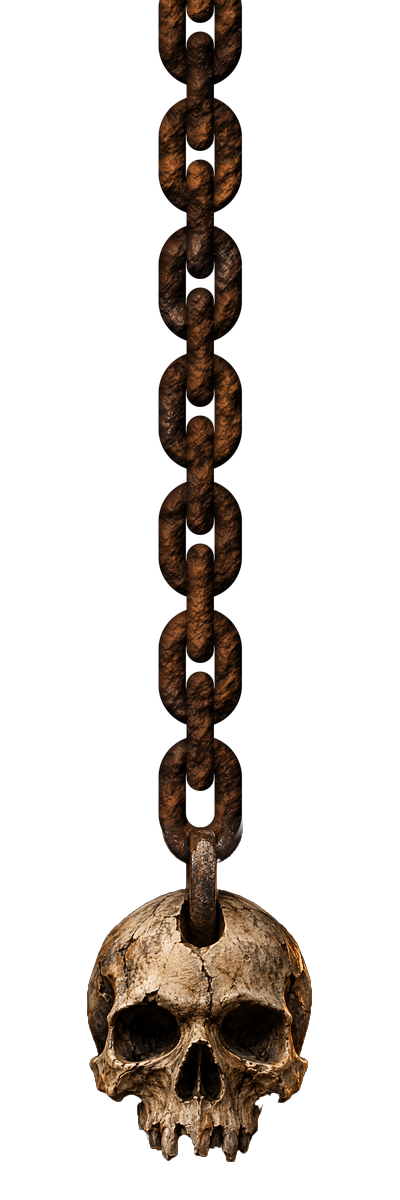
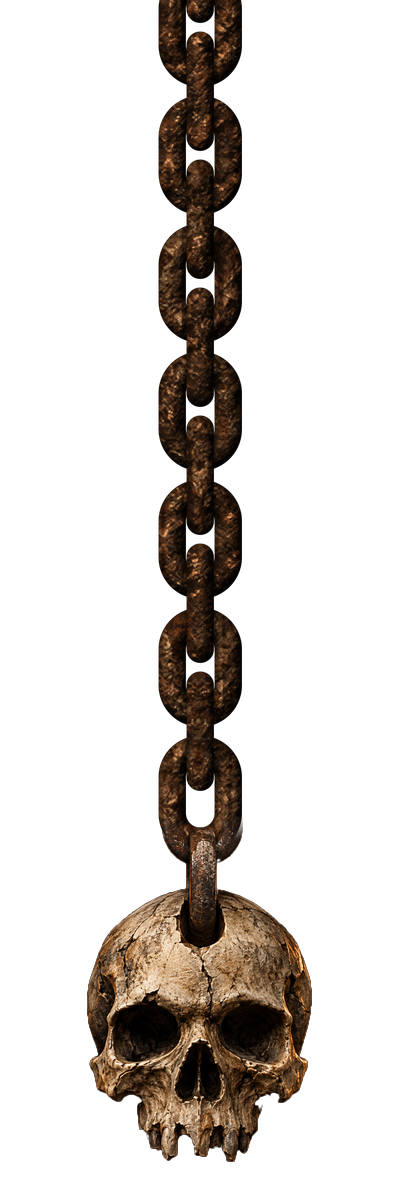
Accueil : texture des chaînes reprise de l'anneau du crâne (script tools/gen_chain.py)
Claude-Session: https://claude.ai/code/session_016J9VLX1fiPLFcAPYid8ZLe

Changed region(s): [[0.39, 0.0, 0.6, 0.7092]]

diff --git a/tools/gen_chain.py b/tools/gen_chain.py
@@ -1,0 +1,169 @@
+import numpy as np
+from PIL import Image
+from scipy import ndimage as ndi
+
+SS = 2                     # sur-échantillonnage
+PX = 4                     # pixels par unité de conception
+def fbm(h, w, seed, oct=5, base=6):
+    rng = np.random.default_rng(seed)
+    out = np.zeros((h, w)); amp = 1.0; tot = 0
+    for o in range(oct):
+        g = rng.random((base * 2**o + 2, max(2, int(base * 2**o * w / h)) + 2))
+        out += amp * ndi.zoom(g, (h / g.shape[0], w / g.shape[1]), order=3)[:h, :w]
+        tot += amp; amp *= 0.5
+    return out / tot
+
+def load_patch():
+    src = Image.open("/mnt/user-data/attachments/97f20bf3-1ee6-5379-b46f-c57472fef5c6/75fdfba2-image.png").convert("RGB")
+    pt = np.asarray(src.crop((616, 84, 684, 322))).astype(np.float32) / 255      # intérieur du tube rouillé
+    low = np.stack([ndi.gaussian_filter(pt[..., c], 14, mode="reflect") for c in range(3)], -1)
+    detail = np.clip(pt / (low + 0.02), 0.35, 2.2)                                 # on retire l'éclairage cuit : reste le grain et la couleur locale
+    mean = pt.reshape(-1, 3).mean(0)
+    return detail, mean
+PATCH, PMEAN = load_patch()
+def alb_map(X, Y, ox, oy, scale):
+    ph, pw = PATCH.shape[:2]
+    u = (X * scale + ox) % (2 * pw); v = (Y * scale + oy) % (2 * ph)
+    u = np.where(u >= pw, 2 * pw - 1 - u, u).astype(np.int32).clip(0, pw - 1)
+    v = np.where(v >= ph, 2 * ph - 1 - v, v).astype(np.int32).clip(0, ph - 1)
+    return PATCH[v, u]
+
+LIGHT = np.array([-0.45, -0.55, 0.70]); LIGHT /= np.linalg.norm(LIGHT)
+
+def tube(shape_sd, r, noise, yy):
+    """shape_sd: distance signée (px) à la ligne médiane du tube (gradient donne le sens). Retourne couleur RGB + alpha."""
+    pass
+
+def seg_dist(X, Y, a, b):
+    ax, ay = a; bx, by = b
+    abx, aby = bx - ax, by - ay
+    t = np.clip(((X - ax) * abx + (Y - ay) * aby) / max(1e-9, abx * abx + aby * aby), 0, 1)
+    cx, cy = ax + t * abx, ay + t * aby
+    return np.hypot(X - cx, Y - cy), X - cx, Y - cy
+
+def shade(nx, ny, nz, mask, noise, hh, atex):
+    h_, w_ = noise.shape
+    fine = fbm(h_, w_, seed=5, oct=5, base=70)            # grain de rouille (relief)
+    mid = fbm(h_, w_, seed=9, oct=4, base=18)              # plaques
+    gy, gx = np.gradient(fine)
+    nx = nx - gx * 18.0; ny = ny - gy * 18.0                # relief rugueux
+    n = np.stack([nx, ny, nz], -1); n /= np.linalg.norm(n, axis=-1, keepdims=True) + 1e-9
+    diff = np.clip(n @ LIGHT, 0, 1)
+    V = np.array([0, 0, 1.0]); H = LIGHT + V; H /= np.linalg.norm(H)
+    spec = np.clip(n @ H, 0, 1) ** 20 * (0.10 + 0.25 * np.clip((atex.mean(-1) - 1.2) * 2.0, 0, 1))
+    base = np.array([0.27, 0.17, 0.10])
+    alb = base[None, None] * atex * (0.85 + 0.3 * fine[..., None])
+    # bords orangés (comme l'anneau d'origine) : tons plus chauds vers les flancs du tube
+    warm = (1 - hh)[..., None] ** 2 * np.array([0.25, 0.10, 0.0])
+    alb = alb + warm * 0.6
+    col = alb * (0.10 + 1.25 * diff[..., None]) + spec[..., None] * np.array([1.0, 0.8, 0.6])
+    col += np.clip(0.5 - 0.5 * (2 * n[..., 2] * n[..., 1]), 0, 1)[..., None] ** 2 * 0.05 * np.array([1.0, 0.5, 0.2])
+    col *= (0.30 + 0.70 * hh[..., None]) ** 0.9
+    return np.clip(col, 0, 1)
+
+def render(W, H, links, noise_seed=3):
+    """links: liste (kind, cx, cy[, extra]) — 'F' lien de face (stade), 'E' lien de profil (barre), 'R' grand anneau."""
+    w, h = W * SS, H * SS
+    Y, X = np.mgrid[0:h, 0:w].astype(np.float32)
+    noise = fbm(h, w, noise_seed, 5, 8)
+    rgb = np.zeros((h, w, 3), np.float32); a = np.zeros((h, w), np.float32)
+    r = 14.0 * SS
+    def put(sd_dist, gx, gy, atex):
+        nonlocal rgb, a
+        d = sd_dist
+        m = d < r
+        hh = np.sqrt(np.clip(1 - (d / r) ** 2, 0, 1))
+        nx = gx / r; ny = gy / r
+        col = shade(nx, ny, hh, m, noise, hh, atex)
+        edge = np.clip((r - d) / 1.2, 0, 1)          # anti-crénelage
+        al = edge * m
+        rgb = rgb * (1 - al[..., None]) + col * al[..., None]; a = np.maximum(a, al) * 1.0 + 0 * al
+        a = np.where(al > 0, np.maximum(a, al), a)
+    def put_shadow(mask_alpha):
+        pass
+    order = [l for l in links if l[0] in "FR"] + [l for l in links if l[0] == "E"]
+    rng = np.random.default_rng(99)
+    for kind, cx, cy, *ex in order:
+        cx *= SS; cy *= SS
+        flip = rng.random() < 0.5
+        atex = alb_map(X if not flip else (w - X), Y, rng.integers(0, 400), rng.integers(0, 400), 0.9 / SS * 1.0 * 1.0)
+        if kind == "F":      # stade : ligne médiane = rectangle arrondi (R=28 px, droite 36 px)
+            Rr = 28.0 * SS; st = 18.0 * SS
+            # distance à la ligne médiane = | dist(segment) - R |
+            d0, dx, dy = seg_dist(X, Y, (cx, cy - st), (cx, cy + st))
+            sd = d0 - Rr
+            gx = np.where(d0 > 1e-6, dx / (d0 + 1e-9), 0); gy = np.where(d0 > 1e-6, dy / (d0 + 1e-9), 0)
+            dd = np.abs(sd); sgn = np.sign(sd)
+            put(dd, gx * sgn * dd, gy * sgn * dd, atex)
+        elif kind == "R":    # grand anneau de face
+            Rr = ex[0] * SS
+            dx = X - cx; dy = Y - cy; d0 = np.hypot(dx, dy)
+            sd = d0 - Rr; dd = np.abs(sd); sgn = np.sign(sd)
+            put(dd, dx / (d0 + 1e-9) * sgn * dd, dy / (d0 + 1e-9) * sgn * dd, atex)
+        else:                # profil : capsule verticale de rayon r (soit 46 px de droite)
+            st = 46.0 * SS
+            # ombre portée douce sur ce qui est dessous
+            d0, dx, dy = seg_dist(X, Y, (cx, cy - st), (cx, cy + st))
+            sh = np.clip(1 - (d0 - r) / (10.0 * SS), 0, 1) ** 2 * 0.55 * (d0 >= r)
+            rgb *= (1 - sh[..., None]); 
+            put(d0, dx, dy, atex)
+    img = np.concatenate([rgb, a[..., None]], -1)
+    im = Image.fromarray((img * 255).astype(np.uint8), "RGBA").resize((W, H), Image.LANCZOS)
+    return im
+
+def pitch_links(cy_start, count_dir, cx, y_from, y_to):
+    pass
+
+def build_left():
+    W, H = 100 * PX, 300 * PX
+    skull = Image.open("/mnt/user-data/attachments/97f20bf3-1ee6-5379-b46f-c57472fef5c6/75fdfba2-image.png").convert("RGB")
+    sw = W; sh = round(skull.height * W / skull.width)
+    skull = skull.resize((sw, sh), Image.LANCZOS)
+    arr = np.asarray(skull).astype(np.float32) / 255
+    lum = arr.max(-1)
+    dark = lum < 0.07
+    lab, n = ndi.label(dark)
+    border = set(np.unique(np.concatenate([lab[0], lab[-1], lab[:, 0], lab[:, -1]]))) - {0}
+    bg = np.isin(lab, list(border))
+    alpha = (~bg).astype(np.float32)
+    alpha = ndi.gaussian_filter(alpha, 1.0)
+    alpha = np.clip((alpha - 0.3) / 0.5, 0, 1)
+    # fondu en haut pour se fondre dans la chaîne
+    fade = np.clip(np.arange(sh)[:, None] / (6.0 * PX), 0, 1)
+    alpha = alpha * fade
+    sk = np.dstack([arr, alpha])
+    sk_im = Image.fromarray((sk * 255).astype(np.uint8), "RGBA")
+    top = H - sh
+    pitch = 16.0 * PX
+    cF = top - 5.0 * PX                       # centre du lien de face qui coiffe la tête
+    links = []
+    cx = W / 2; k = 0
+    y = cF
+    while y > -80:
+        links.append(("F" if k % 2 == 0 else "E", cx, y)); y -= pitch; k += 1
+    base = render(W, H, links, noise_seed=11)
+    # léger voile sombre sous le crâne pour le détacher du fond
+    out = Image.new("RGBA", (W, H), (0, 0, 0, 0)); out.alpha_composite(base)
+    out.alpha_composite(sk_im, (0, top))
+    return out
+
+def build_right():
+    W, H = 64 * PX, 367 * PX
+    pitch = 16.0 * PX
+    cx = W / 2
+    ring_r = 40.0; ring_cy = H - 58.0 * 1.0
+    links = [("R", cx, ring_cy, ring_r)]
+    # dernier lien de profil passant dans l'anneau
+    y = ring_cy - ring_r - 0.0 - 6.0       # le lien E coiffe le haut de l'anneau
+    k = 0
+    cE = ring_cy - ring_r + 18.0
+    y = cE; k = 1
+    while y > -80:
+        links.append(("E" if k % 2 == 1 else "F", cx, y)); y -= pitch; k += 1
+    return render(W, H, links, noise_seed=23)
+
+if __name__ == "__main__":
+    import sys
+    out = sys.argv[1]
+    build_left().save(out + "/chain_left.png")
+    build_right().save(out + "/chain_right.png")

diff --git a/README.md b/README.md
@@ -24,7 +24,7 @@ Un jeu de donjon en vue subjective et en 3D : on mène un groupe de quatre héro
 - **Donjons aléatoires** réglables (difficulté, taille, nombre de niveaux) et **éditeur de niveaux** intégré ; les donjons se partagent par code. À l'arrivée dans un niveau, aucun monstre n'est placé près du départ et tous restent calmes une douzaine de secondes : le joueur a le temps de s'orienter.
 - **Raretés** : les objets d'équipement sont communs, inhabituels, rares, épiques, légendaires ou mythiques (couleur du nom et du cadre) ; chaque palier ajoute des capacités (critique, esquive, vol de vie, exécution, dernier souffle…). Les gardiens laissent au moins du rare, et un légendaire finit toujours par tomber.
 - **Village** : forge, Maître des Talents, marchands itinérants et boutique. Chez le marchand, le bouton d'achat ou de vente est en haut de la fiche de l'objet, et la **sélection multiple** permet de vendre plusieurs objets d'un coup. Les armes et équipements proposés varient en puissance, avec toujours au moins une **belle affaire** nettement meilleure que ce que porte déjà le groupe : acheter reste intéressant à haut niveau.
-- **Interface de jeu (identité « Atlas Noir »)** : refonte complète de l'écran de jeu d'après la maquette — bande du haut (emblème de boussole, titre, repère central « NIVEAU n / NOM » entre deux filets à losanges, commandes en capitales fines) ; colonne de gauche « Carte » (plan, légende à deux colonnes) ; vue 3D au centre avec une réglette d'orientation N/E/S/O en bas ; fiches de héros dessous (portrait, nom en Cinzel, PV rouges et endurance/mana, repère ambre pour le héros actif) ; colonne de droite « Inventaire commun » (six onglets à icône, grille de cases avec quantité en bas à droite, or, total et bouton « Inventaire »), « Carnet » sur parchemin (« Journal des événements ») et raccourcis en cercles numérotés (attaque + sorts 1 à 6) ; file d'initiative en filet fin à losanges ; plus de flammes ni de chaînes. Titre « DONJON / ATLAS NOIR » sur deux lignes ; fond noir uni (plus de texture brune) ; la file d'initiative s'affiche en bas de la vue pendant le combat (sous la barre de vie des monstres) puis disparaît ; le volet d'équipement du personnage a son cadre en bois remplacé par un cadre Atlas ; la vue 3D occupe toute la largeur de l'écran et les panneaux latéraux (carte transparente à gauche, inventaire et carnet à droite) sont posés par-dessus ; le bord haut de la vue « décroche » au-dessus de la carte ; fiches de héros à barres en biais, chiffres à droite ; Carnet en parchemin grainé. Palette obsidienne / ardoise / cuivre / ivoire / ambre, polices Cinzel + Spectral. Le portrait mobile reprend la même identité. Menu d'en-tête en icônes (Guide, Paramètres, Sauvegarde, puis ≡ pour Accueil / Compte / Admin / Langue / Quitter) ; le repère central affiche « NIVEAU n / nom du donjon » ; portraits détourés sur fond noir ; ascenseurs fins à curseur clair ; bouton de tchat réduit ; en jeu, modales et infobulles reprennent le décor Atlas (cadres à angles coupés, filet cuivre) ; au lancement d'un sort de soin, la fiche de héros survolée s'illumine. En combat : file d'initiative entière, posée au-dessus du chronomètre de tour ; barre de vie des monstres plus basse, en biais et rouge comme celles des héros ; pastille « Pause » tout en haut au centre ; colonnes de droite encore plus étroites. Ronds de sorts à anneau dégradé cuivre/ardoise avec repères et halo ambre au survol ; croix directionnelle réservée au mobile ; compteur de l'inventaire par catégorie (possédé / 12) ; barre de vie des monstres très fine, posée au-dessus de leur tête ; potions et parchemins rangés en largeur sous le carnet en combat ; repère de niveau descendu dans le décroché. Nouvelle boussole haute résolution (en-tête et pied de la carte) ; ronds de sorts plus gros sur deux rangées, qui s'allument quand on presse leur touche ; fiche de héros ciblable surlignée en ambre vif (halo, repères d'angle) ; besace à 5 catégories de 12 emplacements (armes, armures, potions, parchemins, clés), l'onglet « Tout » en affiche la somme (60). Coffres et leviers ne se déclenchent plus en marchant dessus : clic sur l'objet ou touche d'action (F par défaut, réglable dans Paramètres › Commandes), avec une invite « [F] Ouvrir le coffre » dans la vue ; le butin d'un coffre jaillit d'un saut et retombe en éventail devant lui sans jamais s'empiler, et ce qui ne tient pas dans la besace (ou tombe d'un monstre) reste au sol, ramassable plus tard ; levier mural remodelé en haute définition. **Techniques ultimes (7e sort)** : chaque classe évoluée (Berserker, Paladin, Mage-Archer, Danselame, Voleur, Assassin, Élémentaliste, Sorcier, Clerc, Croisé, Skalde, Ménestrel, Gardien de la Forêt, Druide de la Tempête) gagne à l'évolution (niveau 5) une technique ultime sur un 7e disque doré de la barre (touches 8 ou R, réglables) : cadenas tant que le héros est de classe de base, puis une jauge qui se remplit en frappant (+10), en encaissant (+6) ou en soutenant (+6) ; jauge pleine, le disque pulse et le sort se lance sans endurance ni recharge, la jauge repart de zéro. L'anneau de la jauge est lumineux et pulse en continu (halo doré, tête incandescente pendant la charge ; une fois pleine, pulsation franche, éclat qui en fait le tour et étincelles). Jauge pleine, un sceau doré « ULTIME » (frère du sceau rouge d'instinct, à l'opposé) apparaît à droite de la vue 3D avec l'icône et le nom du sort : un clic le lance (il se retire pendant une alerte d'instinct). Effets : Rage Sanguinaire, Jugement Divin, Volée Arcanique, Tempête d'Acier (5 frappes), Rafle Éclair (or), Exécution (tue sous 30 % de PV), Cataclysme Élémentaire, Pacte Funeste (vol de vie), Miracle (soin, bouclier et relève d'un héros tombé), Croisade, Chant de Guerre, Berceuse Finale, Racines Ancestrales et Colère du Ciel, avec les effets graphiques et les sons des gros sorts existants. Réglages dans l'atelier : Règles du jeu › Combat › Technique ultime (jauge, niveau, gains), onglet Sorts (interrupteur « Technique ultime » et effets annexes) et onglet Classes (carte « Technique ultime »). **Accueil « Atlas Noir »** : logo (boussole, « ATLAS NOIR », « CARTOGRAPHIE DES PROFONDEURS »), filet à losange et devise « Chaque descente écrit une nouvelle carte. » à gauche ; à droite trois grands boutons à angles coupés (Nouvelle Expédition — « Expédition en ligne » une fois connecté —, Donjon d'Origine, Archives) et un panneau « Outils » (Éditeur de donjon, Importer un fichier JSON, Charger un code, Tutoriel de création) ; pied de page à filet à encoches (version → journal des modifications, crédits). Chaînes refaites en haute définition (maillons rouillés, grain et piqûres, assortis à l'anneau du crâne), le crâne fourni au bout de celle de gauche ; flammes animées par un shader Godot (additif, bruit fractal) sur la torche et la bougie de gauche et la torche de droite, avec une lueur vacillante. Le titre de l'en-tête devient « ATLAS NOIR » seul (plus de « DONJON »). Le hub et l'administration gardent pour l'instant l'ancien décor.
+- **Interface de jeu (identité « Atlas Noir »)** : refonte complète de l'écran de jeu d'après la maquette — bande du haut (emblème de boussole, titre, repère central « NIVEAU n / NOM » entre deux filets à losanges, commandes en capitales fines) ; colonne de gauche « Carte » (plan, légende à deux colonnes) ; vue 3D au centre avec une réglette d'orientation N/E/S/O en bas ; fiches de héros dessous (portrait, nom en Cinzel, PV rouges et endurance/mana, repère ambre pour le héros actif) ; colonne de droite « Inventaire commun » (six onglets à icône, grille de cases avec quantité en bas à droite, or, total et bouton « Inventaire »), « Carnet » sur parchemin (« Journal des événements ») et raccourcis en cercles numérotés (attaque + sorts 1 à 6) ; file d'initiative en filet fin à losanges ; plus de flammes ni de chaînes. Titre « DONJON / ATLAS NOIR » sur deux lignes ; fond noir uni (plus de texture brune) ; la file d'initiative s'affiche en bas de la vue pendant le combat (sous la barre de vie des monstres) puis disparaît ; le volet d'équipement du personnage a son cadre en bois remplacé par un cadre Atlas ; la vue 3D occupe toute la largeur de l'écran et les panneaux latéraux (carte transparente à gauche, inventaire et carnet à droite) sont posés par-dessus ; le bord haut de la vue « décroche » au-dessus de la carte ; fiches de héros à barres en biais, chiffres à droite ; Carnet en parchemin grainé. Palette obsidienne / ardoise / cuivre / ivoire / ambre, polices Cinzel + Spectral. Le portrait mobile reprend la même identité. Menu d'en-tête en icônes (Guide, Paramètres, Sauvegarde, puis ≡ pour Accueil / Compte / Admin / Langue / Quitter) ; le repère central affiche « NIVEAU n / nom du donjon » ; portraits détourés sur fond noir ; ascenseurs fins à curseur clair ; bouton de tchat réduit ; en jeu, modales et infobulles reprennent le décor Atlas (cadres à angles coupés, filet cuivre) ; au lancement d'un sort de soin, la fiche de héros survolée s'illumine. En combat : file d'initiative entière, posée au-dessus du chronomètre de tour ; barre de vie des monstres plus basse, en biais et rouge comme celles des héros ; pastille « Pause » tout en haut au centre ; colonnes de droite encore plus étroites. Ronds de sorts à anneau dégradé cuivre/ardoise avec repères et halo ambre au survol ; croix directionnelle réservée au mobile ; compteur de l'inventaire par catégorie (possédé / 12) ; barre de vie des monstres très fine, posée au-dessus de leur tête ; potions et parchemins rangés en largeur sous le carnet en combat ; repère de niveau descendu dans le décroché. Nouvelle boussole haute résolution (en-tête et pied de la carte) ; ronds de sorts plus gros sur deux rangées, qui s'allument quand on presse leur touche ; fiche de héros ciblable surlignée en ambre vif (halo, repères d'angle) ; besace à 5 catégories de 12 emplacements (armes, armures, potions, parchemins, clés), l'onglet « Tout » en affiche la somme (60). Coffres et leviers ne se déclenchent plus en marchant dessus : clic sur l'objet ou touche d'action (F par défaut, réglable dans Paramètres › Commandes), avec une invite « [F] Ouvrir le coffre » dans la vue ; le butin d'un coffre jaillit d'un saut et retombe en éventail devant lui sans jamais s'empiler, et ce qui ne tient pas dans la besace (ou tombe d'un monstre) reste au sol, ramassable plus tard ; levier mural remodelé en haute définition. **Techniques ultimes (7e sort)** : chaque classe évoluée (Berserker, Paladin, Mage-Archer, Danselame, Voleur, Assassin, Élémentaliste, Sorcier, Clerc, Croisé, Skalde, Ménestrel, Gardien de la Forêt, Druide de la Tempête) gagne à l'évolution (niveau 5) une technique ultime sur un 7e disque doré de la barre (touches 8 ou R, réglables) : cadenas tant que le héros est de classe de base, puis une jauge qui se remplit en frappant (+10), en encaissant (+6) ou en soutenant (+6) ; jauge pleine, le disque pulse et le sort se lance sans endurance ni recharge, la jauge repart de zéro. L'anneau de la jauge est lumineux et pulse en continu (halo doré, tête incandescente pendant la charge ; une fois pleine, pulsation franche, éclat qui en fait le tour et étincelles). Jauge pleine, un sceau doré « ULTIME » (frère du sceau rouge d'instinct, à l'opposé) apparaît à droite de la vue 3D avec l'icône et le nom du sort : un clic le lance (il se retire pendant une alerte d'instinct). Effets : Rage Sanguinaire, Jugement Divin, Volée Arcanique, Tempête d'Acier (5 frappes), Rafle Éclair (or), Exécution (tue sous 30 % de PV), Cataclysme Élémentaire, Pacte Funeste (vol de vie), Miracle (soin, bouclier et relève d'un héros tombé), Croisade, Chant de Guerre, Berceuse Finale, Racines Ancestrales et Colère du Ciel, avec les effets graphiques et les sons des gros sorts existants. Réglages dans l'atelier : Règles du jeu › Combat › Technique ultime (jauge, niveau, gains), onglet Sorts (interrupteur « Technique ultime » et effets annexes) et onglet Classes (carte « Technique ultime »). **Accueil « Atlas Noir »** : logo (boussole, « ATLAS NOIR », « CARTOGRAPHIE DES PROFONDEURS »), filet à losange et devise « Chaque descente écrit une nouvelle carte. » à gauche ; à droite trois grands boutons à angles coupés (Nouvelle Expédition — « Expédition en ligne » une fois connecté —, Donjon d'Origine, Archives) et un panneau « Outils » (Éditeur de donjon, Importer un fichier JSON, Charger un code, Tutoriel de création) ; pied de page à filet à encoches (version → journal des modifications, crédits). Chaînes refaites en haute définition (maillons rouillés, grain et piqûres, dont la texture est reprise de l'anneau du crâne fourni), le crâne fourni au bout de celle de gauche ; flammes animées par un shader Godot (additif, bruit fractal) sur la torche et la bougie de gauche et la torche de droite, avec une lueur vacillante. Le titre de l'en-tête devient « ATLAS NOIR » seul (plus de « DONJON »). Le hub et l'administration gardent pour l'instant l'ancien décor.
 - **Interface de jeu** : la sauvegarde (emplacements, nouvelle partie, export, import) se trouve dans le menu du haut ; la colonne de droite montre la carte (que l'on peut replier), la besace commune du groupe (texte « pièces d'or » et bouton « Inventaire » en petits caractères, pour rester sur une ligne avec le total) et un grand grimoire des événements, plus lisible, qui occupe toute la place restante.
 - **Sept thèmes** de décor (matériaux, éclairage et ambiance propres à chacun), avec parfois du brouillard. Le Cachot humide a des murs et un plafond de briques brun-vert et un sol de terre rocailleuse, en relief (matériau 3D). Le thème Lave a des murs et un plafond de lave aux fissures incandescentes et un sol de roche. Le Temple ancien a des murs et un plafond de pierres plates et un sol de mousse.
 - **Écrans « jeu vidéo »** : le mode en ligne adopte un style plein cadre (couloir de donjon animé aux torches, onglets à filet doré, grand bouton de lancement, icônes dessinées à la place des emojis, touches Haut/Bas/Entrée/Gauche/Droite/Échap) ; les autres écrans suivent peu à peu, la page d'accueil gardant son style.
